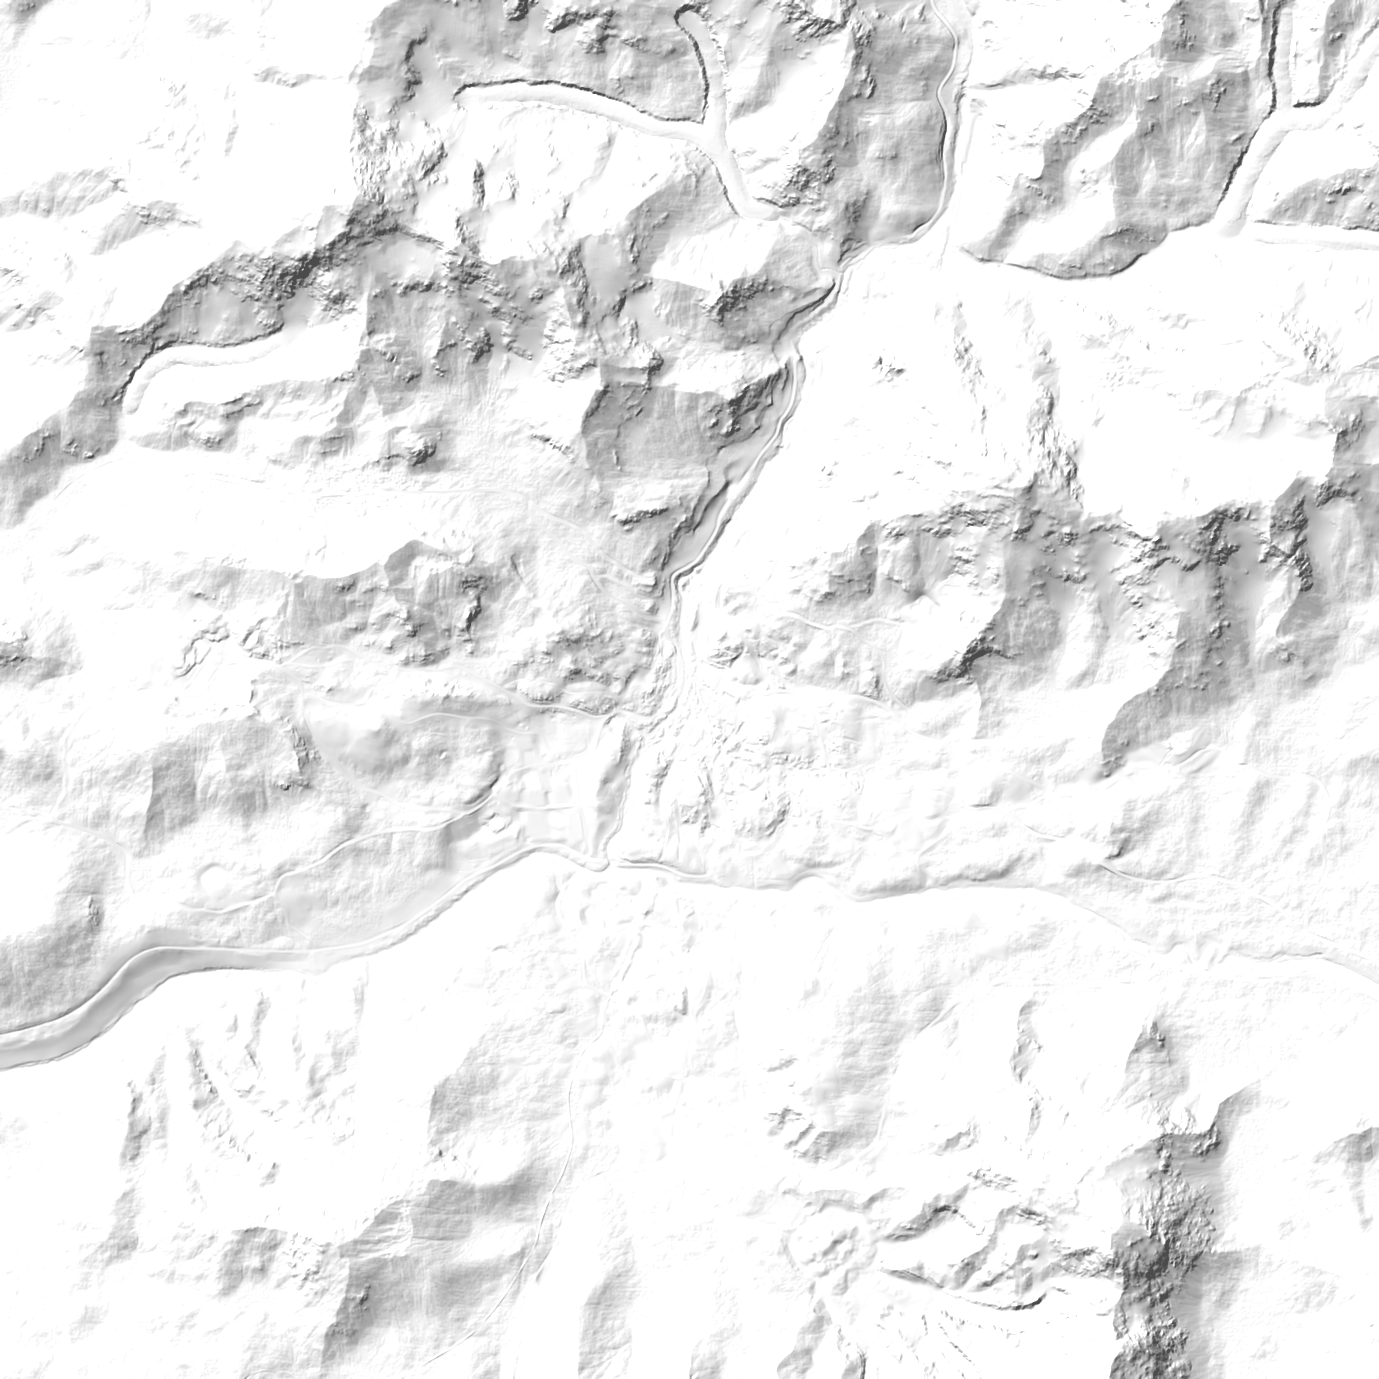
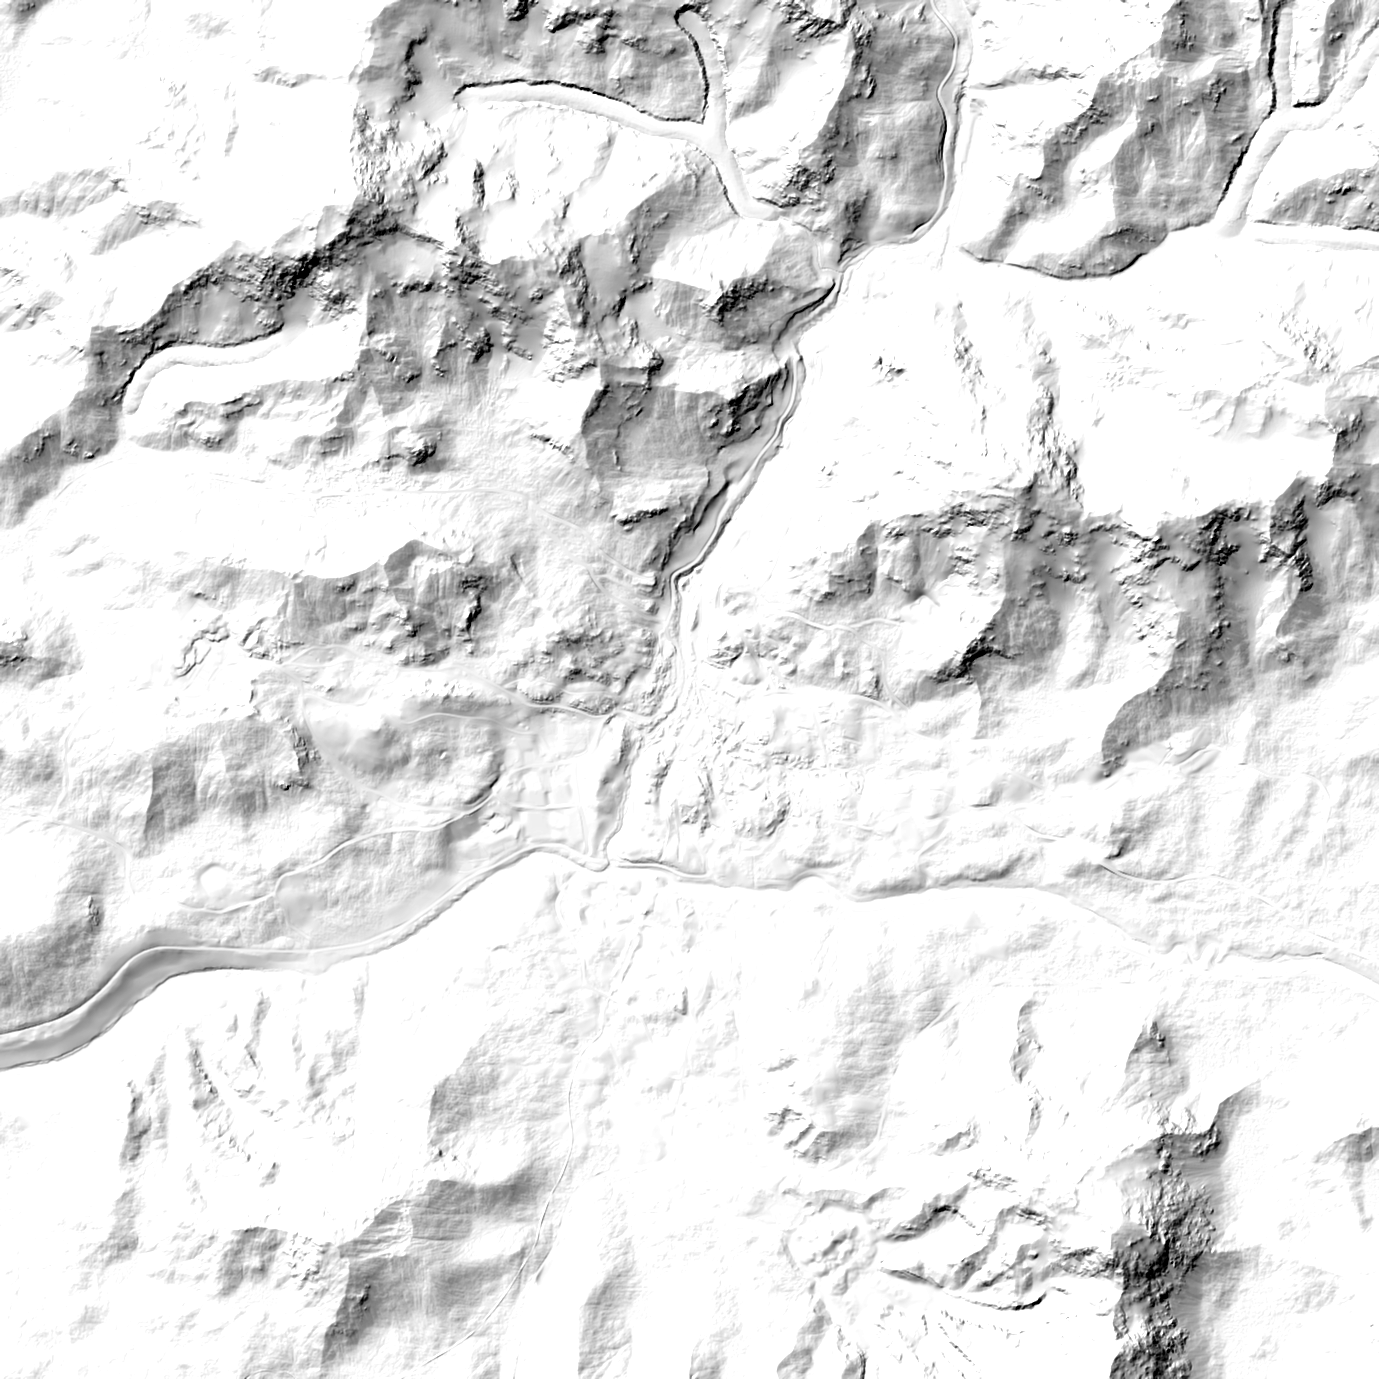
Balance hillshade highlight and shadow against their own headroom

diff --git a/js/map/hillshade.js b/js/map/hillshade.js
@@ -28,7 +28,7 @@ const HILLSHADE_MAP_IDS = [
     'ozeti'
 ];
 
-const HILLSHADE_OPACITY = 0.72;
+const HILLSHADE_OPACITY = 0.5;
 
 const HILLSHADE_CACHE = new Map();
 
